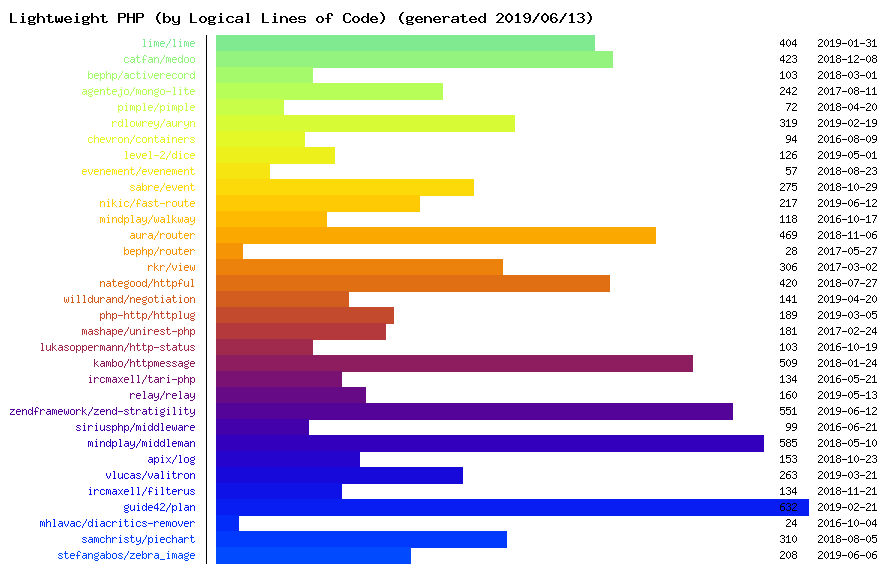
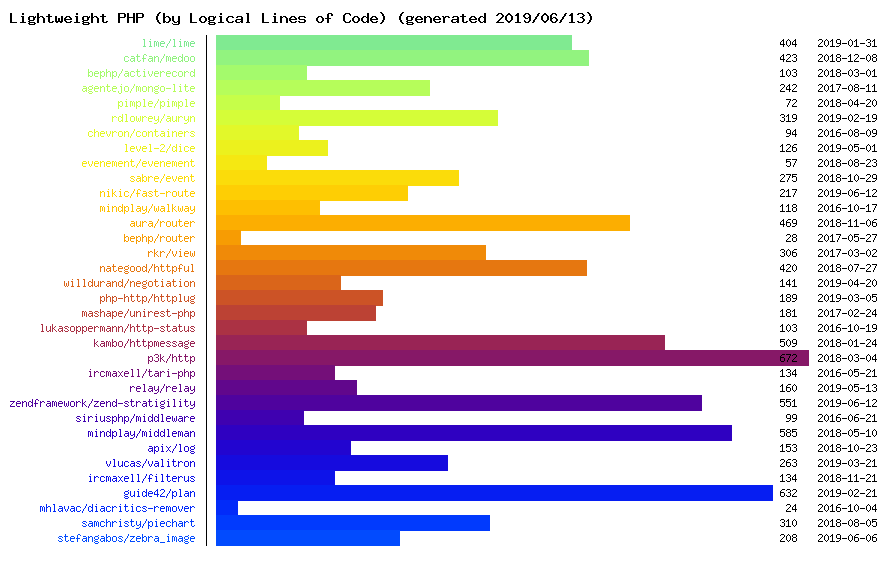
Add p3k-http

Changed region(s): [[0.2432, 0.0621, 1.0, 0.9931], [0.0, 0.0931, 0.2128, 0.9621]]

diff --git a/README.md b/README.md
@@ -58,6 +58,7 @@ List of lightweight PHP libraries.
 * [Unirest](https://github.com/Mashape/unirest-php) - Simplified, lightweight HTTP client library
 * [Httpstatus](https://github.com/lukasoppermann/http-status) - A minimal package for working with HTTP statuses
 * [HttpMessage](https://github.com/kambo-1st/HttpMessage) - Just another PHP implementation of PSR-7
+* [p3k-http](https://github.com/aaronpk/p3k-http) - A simple wrapper API around the PHP curl functions
 
 ## Middleware
 
